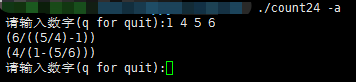
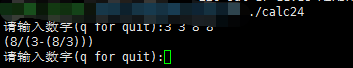
名字从count24修改为calc24

Changed region(s): [[0.0, 0.0, 1.0, 0.7059], [0.0, 0.7353, 0.4986, 0.9412]]

diff --git a/calc24_test.go b/calc24_test.go
@@ -1,14 +1,22 @@
 package main
 
 import (
+	"fmt"
 	"testing"
 )
 
-func Test_main(t *testing.T) {
+func Test_dsf(t *testing.T) {
 	num := []float64{3, 3, 8, 8}
 	str := []string{"3", "3", "8", "8"}
 
 	if !dsf2(num, str, false, 24.0) {
 		t.Error("failed@", num)
 	}
+}
+
+func Test_divzero(t *testing.T) {
+	a := 1.0
+	b := 0.0
+	c := a / b
+	fmt.Println("c:", c)
 }
